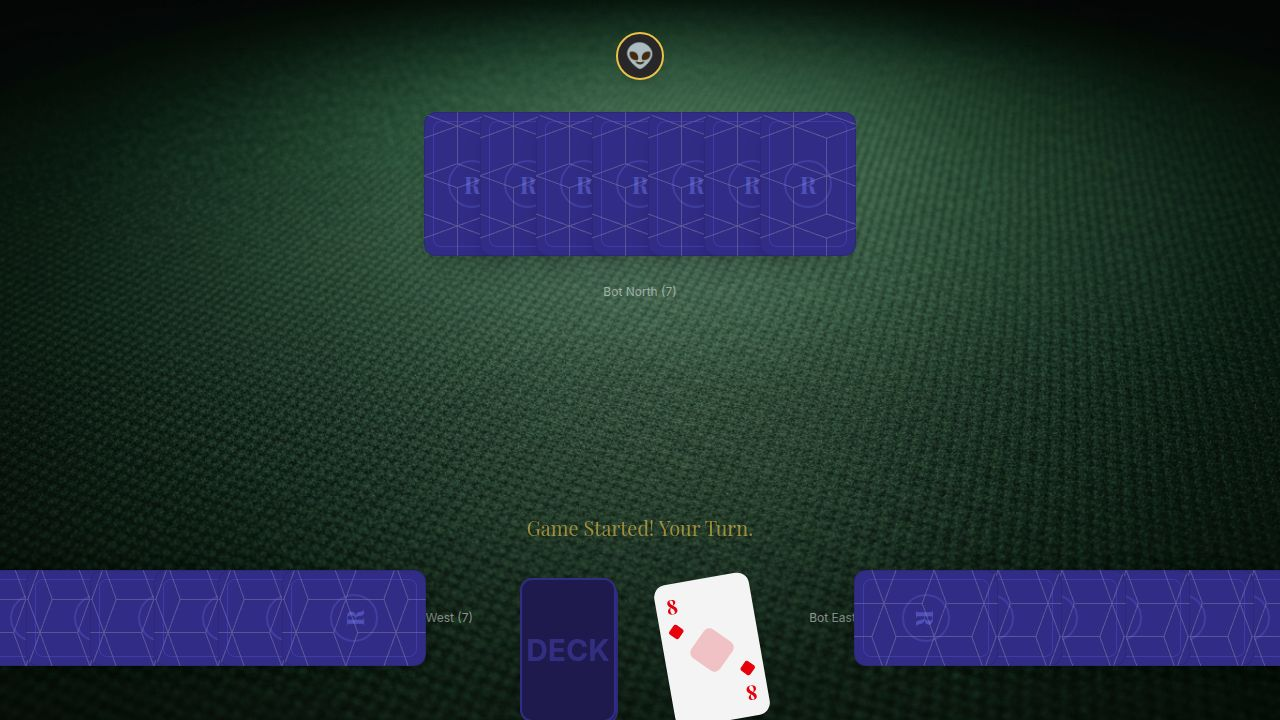
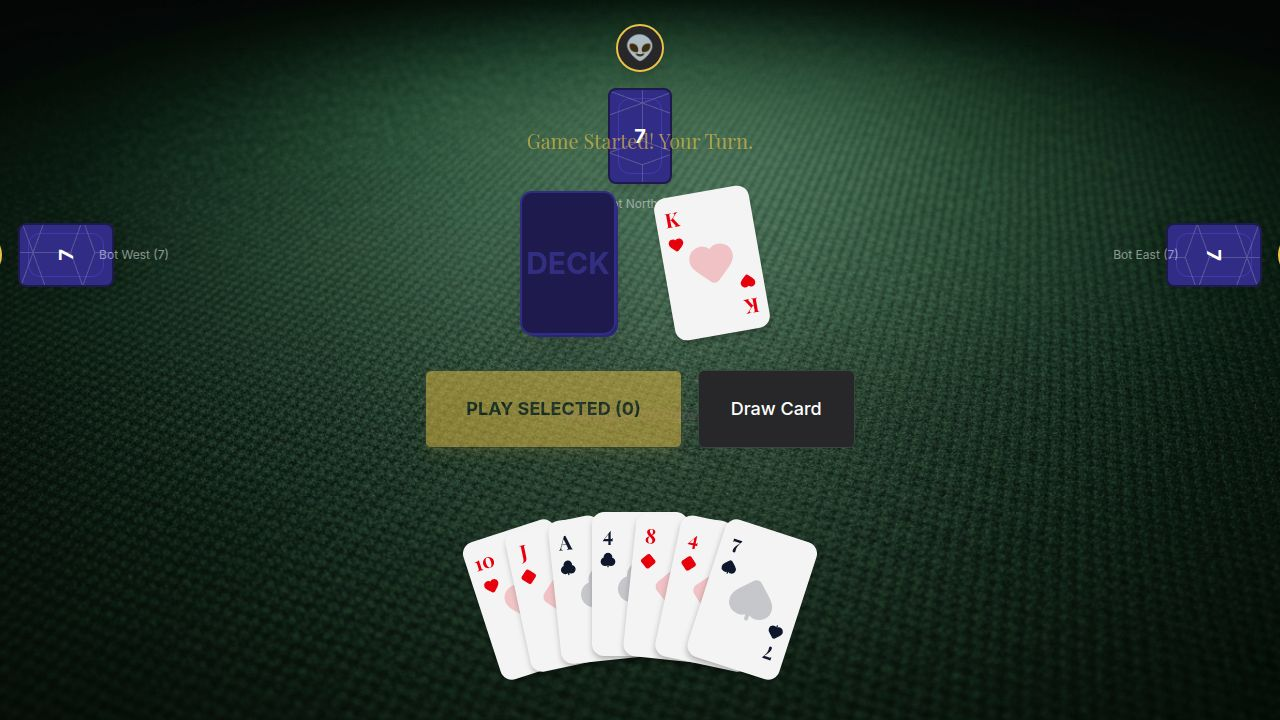
Improve game display and bot logic for a better player experience
Update UI to show opponent card counts and player hand fan, fix bot playing Queen alone, and display last played cards with player attribution.

Replit-Commit-Author: Agent
Replit-Commit-Session-Id: 245351ae-1d01-4011-9260-e3429e557536
Replit-Commit-Checkpoint-Type: full_checkpoint
Replit-Commit-Event-Id: baa1452f-442a-49b0-9201-66c1268d2f5a
Replit-Commit-Screenshot-Url: https://storage.googleapis.com/screenshot-production-us-central1/c3f979b8-4de0-468d-82b8-12a002ff8aef/245351ae-1d01-4011-9260-e3429e557536/4CW2N7T
Replit-Helium-Checkpoint-Created: true

diff --git a/client/src/components/game/GameArea.tsx b/client/src/components/game/GameArea.tsx
@@ -4,7 +4,7 @@ import { Hand } from './Hand';
 import { Card } from './Card';
 import { Button } from '@/components/ui/button';
 import { toast } from '@/hooks/use-toast';
-import { motion } from 'framer-motion';
+import { motion, AnimatePresence } from 'framer-motion';
 import { cn } from '@/lib/utils';
 import { Club, Diamond, Heart, Spade } from 'lucide-react';
 import tableTexture from '@assets/generated_images/dark_luxury_poker_table_felt_texture.png';
@@ -85,28 +85,15 @@ const gameReducer = (state: GameState, action: Action): GameState => {
 
       // 2: Pickup 2
       if (lastCard.rank === '2') {
-        // Only count consecutive 2s at the end of the combo? 
-        // Or all 2s played? User says "stack to penalty".
-        // If I play 2-2-2, that's +6.
         const twoCount = cards.filter(c => c.rank === '2').length;
         newPenalty += 2 * twoCount;
       }
       
       // Black Jack (J Spades/Clubs)
-      // Check for Black Jacks in the combo
       const blackJackCount = cards.filter(c => c.rank === 'J' && (c.suit === 'spades' || c.suit === 'clubs')).length;
       if (blackJackCount > 0) {
-        // Check if countered by Red Jack in the SAME combo?
-        // Logic: If the LAST card is Black Jack, penalty is active.
-        // If LAST card is Red Jack, penalty is cleared (if it was active).
-        // Since we process the combo as a block:
         if (lastCard.rank === 'J' && (lastCard.suit === 'spades' || lastCard.suit === 'clubs')) {
             newPenalty += 7 * blackJackCount;
-        } else if (lastCard.rank === 'J' && (lastCard.suit === 'hearts' || lastCard.suit === 'diamonds')) {
-            // Cleared? Or just didn't add?
-            // "unless they have the red jack to place on top"
-            // So Red Jack cancels the penalty.
-            // If I play Black Jack -> Red Jack, penalty is 0.
         }
       }
 
@@ -124,19 +111,10 @@ const gameReducer = (state: GameState, action: Action): GameState => {
       
       // Advance Player logic
       if (newPhase !== 'selecting_suit') {
-         // Advance 1 step normally
          let steps = 1;
-         
-         // If 8s were played, we skip players.
-         // "if a player place 2 8's that would mean the next 2 players miss a go"
-         // This means we advance 1 (normal) + 2 (skips) = 3 steps?
-         // Or does it mean the next player is skipped, AND the one after that?
-         // "next 2 players miss a go" -> Player A plays -> Player B (miss) -> Player C (miss) -> Player D (plays).
-         // So we advance 1 + 2 = 3 steps.
          if (eightCount > 0) {
              steps += eightCount;
          }
-         
          nextIndex = (state.currentPlayerIndex + (steps * newDirection) + 400) % 4; // Add large number to handle negative modulo
       }
 
@@ -149,7 +127,11 @@ const gameReducer = (state: GameState, action: Action): GameState => {
         currentPlayerIndex: nextIndex,
         turnPhase: newPhase,
         activeSuit: newActiveSuit,
-        message: `${currentPlayer.name} played ${cards.length} cards.`
+        message: `${currentPlayer.name} played ${cards.length} cards.`,
+        lastTurn: {
+            playerId: currentPlayer.id,
+            cards: cards
+        }
       };
     }
 
@@ -176,27 +158,56 @@ const gameReducer = (state: GameState, action: Action): GameState => {
 
 export const GameArea = () => {
   const [state, dispatch] = useReducer(gameReducer, null, getInitialState);
-  const [selectedCards, setSelectedCards] = useState<string[]>([]); // Changed to array to track order
+  const [selectedCards, setSelectedCards] = useState<string[]>([]);
 
   // Bot Turn Effect
   useEffect(() => {
     if (state.players[state.currentPlayerIndex].isBot && state.turnPhase === 'playing' && !state.winner) {
       const timer = setTimeout(() => {
-        // Simple Bot Logic
         const bot = state.players[state.currentPlayerIndex];
         const topCard = state.pile[state.pile.length - 1];
         
-        // Find first valid card
-        const playableCard = bot.hand.find(c => isValidMove(topCard, c, state.activeSuit, state.penaltyStack));
+        // --- Improved Bot Logic ---
+        let cardsToPlay: CardType[] | null = null;
+        let suitToPick: Suit | null = null;
+
+        // Try to find a valid move
+        for (const card of bot.hand) {
+            // Check if single card is valid start
+            if (isValidMove(topCard, card, state.activeSuit, state.penaltyStack)) {
+                
+                // QUEEN CHECK: If it's a Queen, we MUST cover it
+                if (card.rank === 'Q') {
+                    // Look for cover card (same suit, not the same card)
+                    const coverCard = bot.hand.find(c => c.id !== card.id && c.suit === card.suit);
+                    
+                    if (coverCard) {
+                        // Found a cover! Play both.
+                        cardsToPlay = [card, coverCard];
+                        break; // Found a move, stop looking
+                    } else {
+                        // Can't cover Queen, so this single card move is INVALID for a Queen
+                        // Continue loop to find another card
+                        continue;
+                    }
+                }
+
+                // Normal Card or Power Card (not Queen)
+                cardsToPlay = [card];
+                
+                // If Ace, decide suit (randomly for now)
+                if (card.rank === 'A') {
+                    suitToPick = ['hearts', 'diamonds', 'clubs', 'spades'][Math.floor(Math.random() * 4)] as Suit;
+                }
+                
+                break; // Found a move
+            }
+        }
         
-        if (playableCard) {
-            // Check if Ace (bot needs to pick suit - random for now)
-            if (playableCard.rank === 'A') {
-                 dispatch({ type: 'PLAY_CARDS', cards: [playableCard] });
-                 // Small delay for suit pick
-                 setTimeout(() => dispatch({ type: 'CHANGE_SUIT', suit: 'hearts' }), 500); 
-            } else {
-                dispatch({ type: 'PLAY_CARDS', cards: [playableCard] });
+        if (cardsToPlay) {
+            dispatch({ type: 'PLAY_CARDS', cards: cardsToPlay });
+            if (suitToPick) {
+                 setTimeout(() => dispatch({ type: 'CHANGE_SUIT', suit: suitToPick! }), 500); 
             }
         } else {
           dispatch({ type: 'DRAW_CARD' });
@@ -208,7 +219,6 @@ export const GameArea = () => {
 
   const handleCardClick = (card: CardType) => {
     if (state.players[state.currentPlayerIndex].isBot) return;
-    // Prevent selection if waiting for suit selection
     if (state.turnPhase === 'selecting_suit') return;
 
     setSelectedCards(prev => {
@@ -223,19 +233,13 @@ export const GameArea = () => {
   };
 
   const handlePlay = () => {
-    if (state.turnPhase === 'selecting_suit') return; // Double check
+    if (state.turnPhase === 'selecting_suit') return; 
 
     const playerHand = state.players[0].hand;
-    
-    // Get selected cards respecting SELECTION ORDER
-    // We map the IDs in selectedCards array to actual card objects
     const cardsToPlay = selectedCards
         .map(id => playerHand.find(c => c.id === id))
-        .filter((c): c is CardType => !!c); // Type guard to remove undefined
+        .filter((c): c is CardType => !!c); 
     
-    // VALIDATION 1: Queen Rule
-    // "Queen cards have to be covered with another card of the same suit."
-    // If last card is Q, prevent play.
     const lastCard = cardsToPlay[cardsToPlay.length - 1];
     const endsOnQueen = lastCard && lastCard.rank === 'Q';
 
@@ -263,7 +267,6 @@ export const GameArea = () => {
 
   const currentPlayer = state.players[state.currentPlayerIndex];
   const isPlayerTurn = !currentPlayer.isBot;
-  const topCard = state.pile[state.pile.length - 1];
   const isSelectingSuit = state.turnPhase === 'selecting_suit' && isPlayerTurn;
 
   return (
@@ -278,7 +281,7 @@ export const GameArea = () => {
         }}
       />
       
-      {/* Suit Selection Overlay - Modal Style */}
+      {/* Suit Selection Overlay */}
       {isSelectingSuit && (
         <div className="absolute inset-0 z-50 flex items-center justify-center bg-black/60 backdrop-blur-sm animate-in fade-in duration-200">
              <div className="bg-zinc-900 border-2 border-primary rounded-2xl p-8 shadow-2xl flex flex-col items-center gap-6 animate-in zoom-in-95 duration-200">
@@ -371,6 +374,41 @@ export const GameArea = () => {
                         </div>
                     )}
                 </div>
+            </div>
+
+            {/* LAST TURN DISPLAY */}
+            <div className="h-24 w-full flex flex-col items-center justify-center">
+                <AnimatePresence mode="wait">
+                    {state.lastTurn ? (
+                        <motion.div 
+                            key={state.lastTurn.cards.map(c => c.id).join('-')}
+                            initial={{ opacity: 0, y: -20 }}
+                            animate={{ opacity: 1, y: 0 }}
+                            exit={{ opacity: 0, scale: 0.9 }}
+                            className="flex flex-col items-center bg-black/40 p-2 rounded-lg backdrop-blur-sm border border-white/10"
+                        >
+                            <div className="flex items-center gap-2 mb-2">
+                                <span className="text-xs text-zinc-400 uppercase tracking-wider">Last Played by</span>
+                                <span className="text-sm font-bold text-primary">
+                                    {state.players.find(p => p.id === state.lastTurn?.playerId)?.name}
+                                </span>
+                            </div>
+                            <div className="flex gap-2">
+                                {state.lastTurn.cards.map((card, i) => (
+                                    <div key={card.id} className="transform hover:scale-110 transition-transform" style={{ zIndex: i }}>
+                                        <div className="w-12 h-16">
+                                            <Card card={card} className="text-[10px]" />
+                                        </div>
+                                    </div>
+                                ))}
+                            </div>
+                        </motion.div>
+                    ) : (
+                        <div className="h-full flex items-center justify-center text-zinc-600 text-sm italic">
+                            Waiting for first move...
+                        </div>
+                    )}
+                </AnimatePresence>
             </div>
             
         </div>

diff --git a/client/src/lib/game.ts b/client/src/lib/game.ts
@@ -29,6 +29,7 @@ export interface GameState {
   winner: string | null;
   turnPhase: GamePhase;
   message: string;
+  lastTurn: { playerId: string; cards: Card[] } | null;
 }
 
 const SUITS: Suit[] = ['hearts', 'diamonds', 'clubs', 'spades'];
@@ -151,6 +152,7 @@ export function getInitialState(): GameState {
     activeSuit: null,
     winner: null,
     turnPhase: 'playing',
-    message: "Game Started! Your Turn."
+    message: "Game Started! Your Turn.",
+    lastTurn: null
   };
 }
